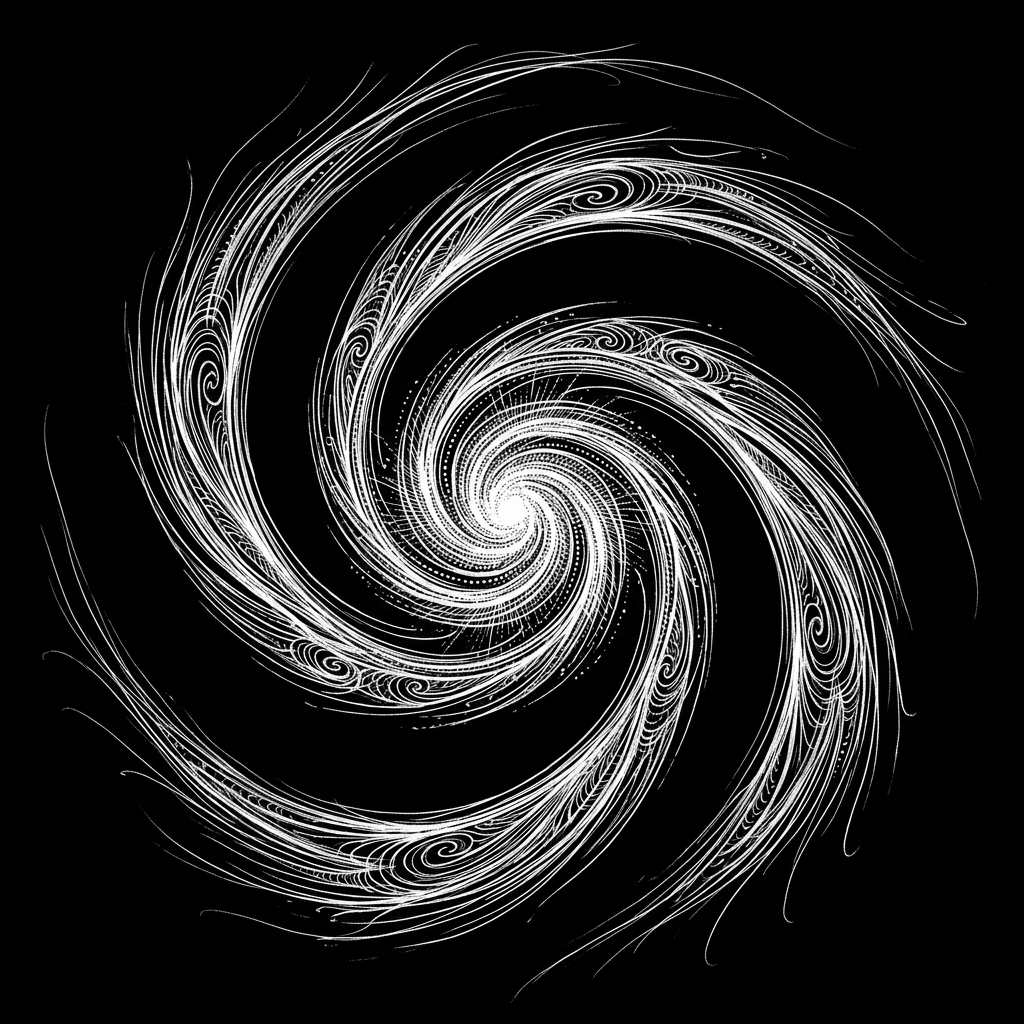
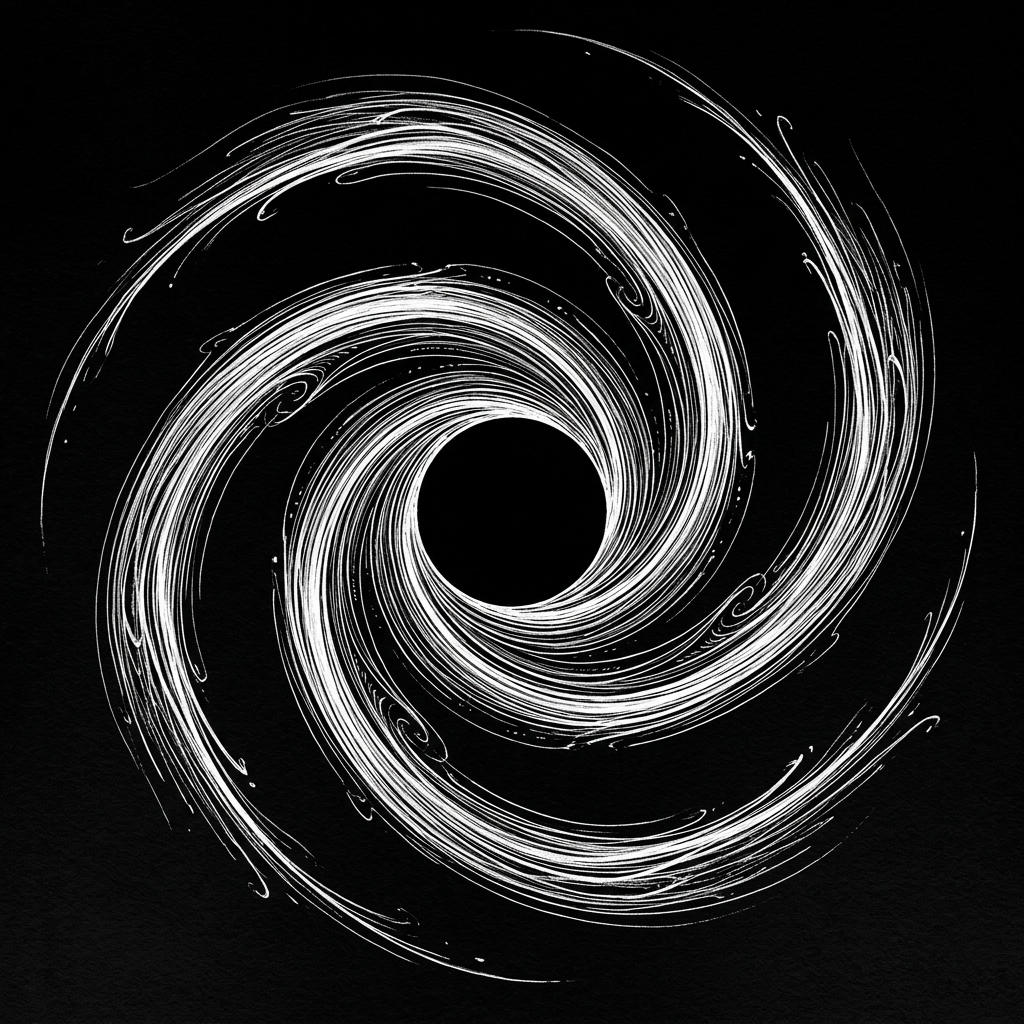
wip: auto-save

diff --git a/src/routes/rabbit-hole/+page.svelte b/src/routes/rabbit-hole/+page.svelte
@@ -164,13 +164,14 @@
 	}
 
 	.rh-spiral {
-		width: 220px;
-		height: 220px;
+		width: 260px;
+		height: 260px;
 		object-fit: cover;
-		border-radius: 50%;
-		opacity: 0.7;
+		opacity: 0.85;
 		pointer-events: none;
 		display: block;
+		mask-image: radial-gradient(circle, black 40%, transparent 72%);
+		-webkit-mask-image: radial-gradient(circle, black 40%, transparent 72%);
 	}
 
 	.rh-tagline {

diff --git a/BUILD-LOG.md b/BUILD-LOG.md
@@ -14393,3 +14393,6 @@ Once complete, the World Map will show real artist pins and the Rabbit Hole will
 
 > **Commit b51e1dfb** (2026-03-05 13:54) — wip: auto-save
 > Files changed: 3
+
+> **Commit eff7bc1e** (2026-03-05 13:57) — wip: auto-save
+> Files changed: 3
